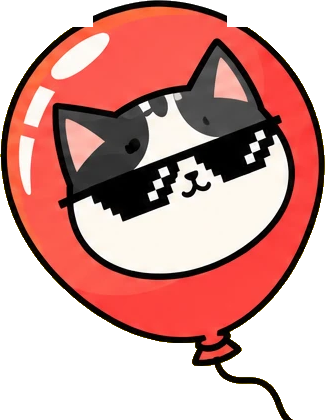
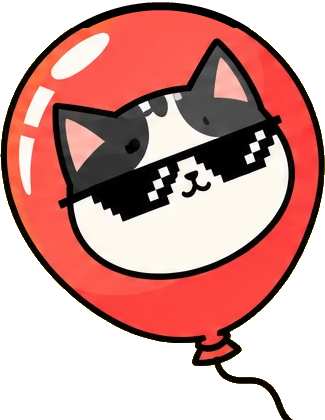
Menu order Explore / Launch / My pops / How it works; repair clipped balloon tops
Claude-Session: https://claude.ai/code/session_01YSw5aGHSAutVFDkT7JSgHG

Changed region(s): [[0.2462, 0.0, 0.7692, 0.0929]]

diff --git a/apps/poplaunch/mockup/index.html b/apps/poplaunch/mockup/index.html
@@ -428,7 +428,7 @@ main { flex: 1; }
   }
 
   function createView() {
-    return '<div class="wrap page"><h1 class="display" style="font-size:40px">Create a coin</h1><p class="label" style="margin-top:8px;max-width:60ch">Pick a name, a ticker and an image. The launch terms are fixed for every coin, so there is nothing else to configure.</p>' +
+    return '<div class="wrap page"><h1 class="display" style="font-size:40px">Launch a coin</h1><p class="label" style="margin-top:8px;max-width:60ch">Pick a name, a ticker and an image. The launch terms are fixed for every coin, so there is nothing else to configure.</p>' +
       '<form class="form" id="create-form" style="margin-top:24px" novalidate>' +
         '<label class="field"><span class="t">Name</span><input class="input" id="c-name" placeholder="CAT.EXE" maxlength="32" required><span class="label hint" style="display:block">Up to 32 characters. Fixed once published.</span></label>' +
         '<label class="field"><span class="t">Ticker</span><input class="input" id="c-ticker" placeholder="CATEXE" maxlength="10" style="width:176px;text-transform:uppercase" required><span class="label hint" style="display:block">1 to 10 letters or digits. Fixed once published.</span></label>' +
@@ -484,7 +484,7 @@ main { flex: 1; }
 
   // ---------- router ----------
   const main = document.getElementById("main");
-  const LINKS = [["#home", "Explore"], ["#how", "How it works"], ["#create", "Create a coin"], ["#mypops", "My pops (example)"]];
+  const LINKS = [["#home", "Explore"], ["#create", "Launch"], ["#mypops", "My pops"], ["#how", "How it works"]];
   let launchState = {};
   function route() {
     const h = (location.hash || "#home").slice(1);

diff --git a/apps/poplaunch/src/components/header.tsx b/apps/poplaunch/src/components/header.tsx
@@ -36,9 +36,9 @@ export function Header() {
   }, []);
   const links = [
     { href: "/", label: "Explore", current: path === "/" || path.startsWith("/launch") },
-    { href: "/how-it-works", label: "How it works", current: path.startsWith("/how-it-works") },
-    { href: "/create", label: "Create a coin", current: path.startsWith("/create") },
+    { href: "/create", label: "Launch", current: path.startsWith("/create") },
     ...(connected && !DEMO ? [{ href: "/my-pops", label: "My pops", current: path.startsWith("/my-pops") }] : []),
+    { href: "/how-it-works", label: "How it works", current: path.startsWith("/how-it-works") },
   ];
   return (
     <header className="bg-bg border-b-[3px] border-ink sticky top-0 z-30">

diff --git a/apps/poplaunch/scripts/fix-balloon-tops.py b/apps/poplaunch/scripts/fix-balloon-tops.py
@@ -1,0 +1,57 @@
+"""Repair the clipped balloon tops: the mockup's row/panel border crossed each balloon, and the extraction
+left a narrow stub with no outline above that line. Fit an axis-aligned ellipse to the good upper body,
+then redraw everything above the break from that ellipse: shell colours resampled from the first good row,
+a uniform black outline, supersampled edges."""
+import sys, numpy as np
+from PIL import Image
+
+def repair(path, out_paths):
+    im = Image.open(path).convert("RGBA"); a = np.array(im).astype(np.float64); H, W = a.shape[:2]
+    al = a[..., 3] > 128
+    L = np.array([np.where(r)[0].min() if r.any() else -1 for r in al]); R = np.array([np.where(r)[0].max() if r.any() else -1 for r in al])
+    wd = np.where(L >= 0, R - L + 1, 0); maxw = wd.max()
+    top = int(H * 0.3); jumps = wd[1:top] - wd[:top - 1]
+    y1 = int(np.argmax(jumps)) + 1
+    if jumps.max() < 0.08 * maxw: print(path, "no break found"); return
+    # ellipse fit on the upper body below the break: A x^2 + B y^2 + C x + D y = 1
+    ys = np.arange(y1 + 1, y1 + int(H * 0.33)); pts = [(L[y], y) for y in ys] + [(R[y], y) for y in ys]
+    P = np.array(pts, float); M = np.c_[P[:, 0] ** 2, P[:, 1] ** 2, P[:, 0], P[:, 1]]
+    A, B, C, D = np.linalg.lstsq(M, np.ones(len(P)), rcond=None)[0]
+    cx, cy = -C / (2 * A), -D / (2 * B); k = 1 + A * cx ** 2 + B * cy ** 2; ea, eb = np.sqrt(k / A), np.sqrt(k / B)
+    dark = (a[..., :3].sum(axis=2) < 200) & al
+    runs = []
+    for y in range(y1 + 2, y1 + 12):
+        x = L[y]; n = 0
+        while x < W and dark[y, x]: n += 1; x += 1
+        runs.append(n)
+    t = float(np.clip(np.median(runs), 2, 8))
+    src = y1 + 2; sL, sR = L[src], R[src]
+    print(f"{path}: break above row {y1}, ellipse c=({cx:.1f},{cy:.1f}) a={ea:.1f} b={eb:.1f}, outline {t}px, source row {src}")
+    S = 4; out = a.copy()
+    for y in range(0, y1 + 1):
+        row = np.zeros((W, 4)); cov = np.zeros(W); ink = np.zeros(W)
+        for sy in range(S):
+            yy = y + (sy + 0.5) / S
+            for sx in range(S):
+                xx = np.arange(W) + (sx + 0.5) / S
+                r_out = ((xx - cx) / ea) ** 2 + ((yy - cy) / eb) ** 2
+                r_in = ((xx - cx) / (ea - t)) ** 2 + ((yy - cy) / (eb - t)) ** 2
+                inside = r_out <= 1; cov += inside; ink += inside & (r_in > 1)
+        cov /= S * S; ink /= S * S
+        # shell colour: resample the source row across this row's ellipse width
+        hw = ea * np.sqrt(max(0.0, 1 - ((y + 0.5 - cy) / eb) ** 2)); lo, hi = cx - hw, cx + hw
+        xs = np.arange(W) + 0.5
+        u = np.clip((xs - lo) / max(hi - lo, 1e-6), 0, 1)
+        # map interior (just inside the source row's outline) to the source row's interior
+        srcx = np.clip(sL + t + u * (sR - sL - 2 * t), 0, W - 1)
+        shell = a[src, np.round(srcx).astype(int), :3]
+        rgb = shell * (1 - ink[:, None]) + np.zeros(3) * ink[:, None]
+        row[:, :3] = rgb; row[:, 3] = cov * 255
+        out[y] = row
+    # blend the first good rows' outline edge so the seam is invisible
+    img = Image.fromarray(out.clip(0, 255).astype(np.uint8), "RGBA")
+    for p in out_paths: img.save(p)
+
+for f in sys.argv[1:]:
+    name = f.split("/")[-1]
+    repair(f, ["/home/user/poplaunch/apps/poplaunch/mockup/art/" + name, "/home/user/poplaunch/apps/poplaunch/public/art/" + name])
